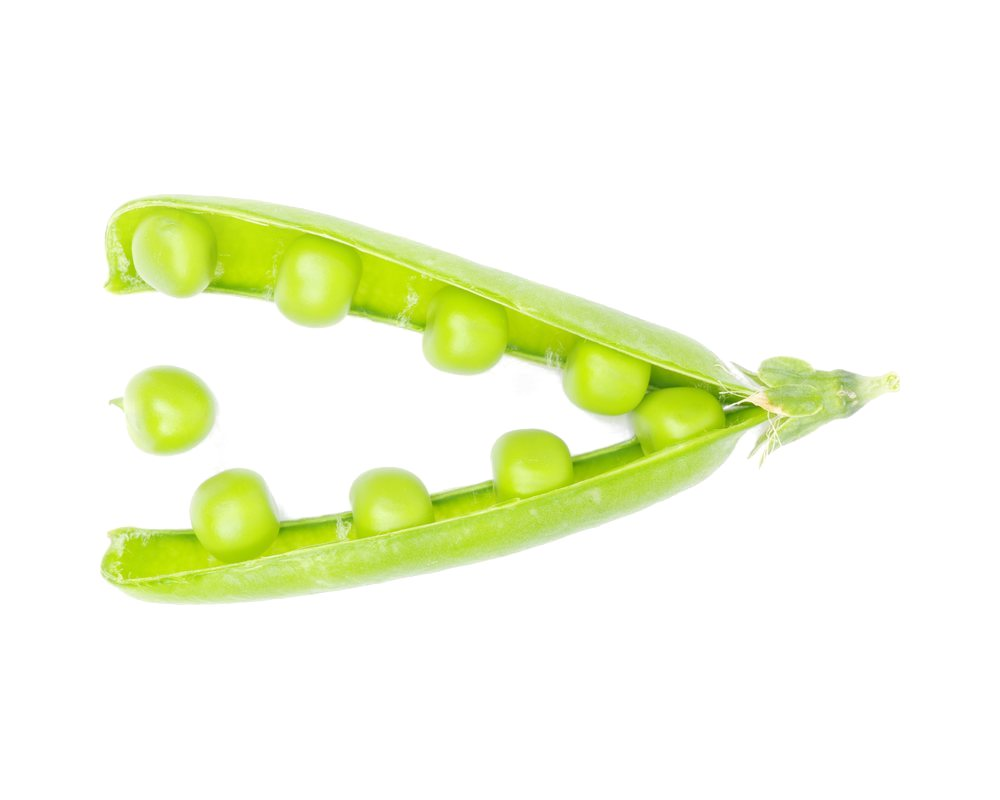
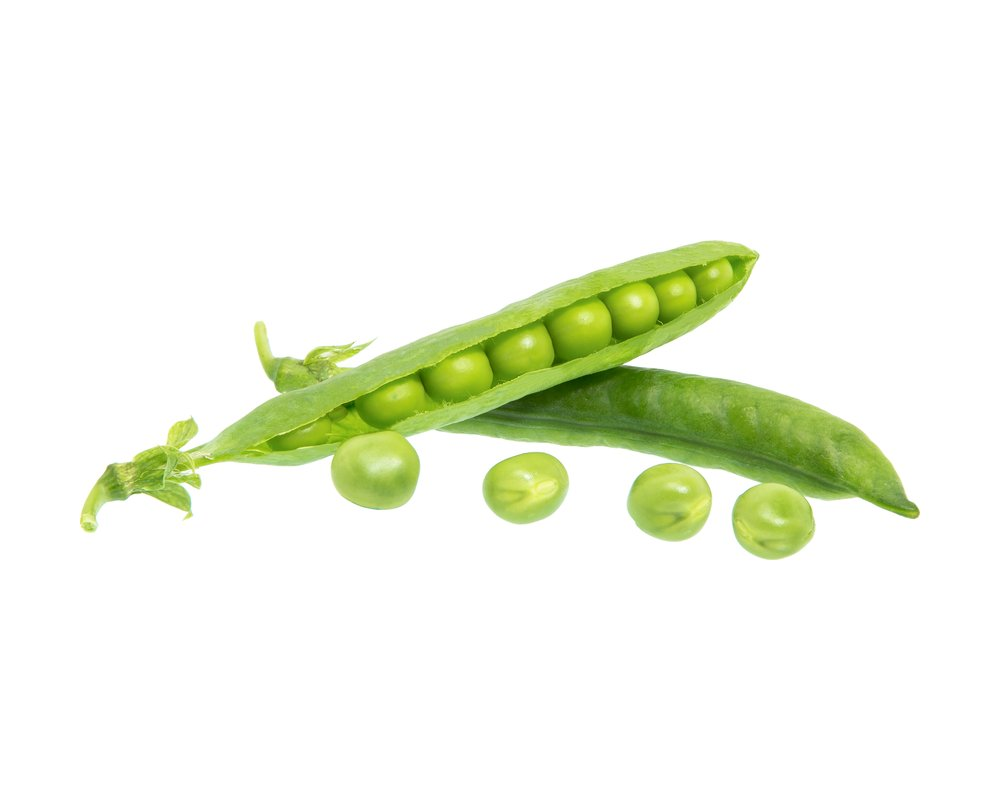
Foods: new photo for Peas
Open pea pods with a few peas on white (Magnific premium by romiri, picked by
the app owner), centered like the other single-food photos.

Claude-Session: https://claude.ai/code/session_01Hj6QJBTm6LNjTnyKhFQZB8

Changed region(s): [[0.062, 0.2188, 0.93, 0.7812]]

diff --git a/docs/photo-credits.md b/docs/photo-credits.md
@@ -256,7 +256,7 @@ app owner's paid Magnific (formerly Freepik) account and fetched with its API.
 | food-sweet-potato     | Magnific (magnific.com), via API                                                           | New Africa       | https://www.magnific.com/premium-photo/fresh-raw-sweet-potato-isolated-white_416907908.htm                                                                    | Magnific Premium license                | 2026-10-13 |
 | food-carrot           | Magnific (magnific.com), via API                                                           | rakibofficealbd  | https://www.magnific.com/premium-photo/single-fresh-orange-carrot-isolated-white-background-healthy-food-photography_429212493.htm                            | Magnific Premium license                | 2026-10-13 |
 | food-broccoli         | Magnific (magnific.com), via API                                                           | irinafischer     | https://www.magnific.com/premium-photo/broccoli-green-florets-photography-isolated-white-background-clipping-path-original-shadowxa_374081813.htm             | Magnific Premium license                | 2026-10-13 |
-| food-peas             | Magnific (magnific.com), via API                                                           | pakhnyushchyy    | https://www.magnific.com/premium-photo/peas_36433158.htm                                                                                                      | Magnific Premium license                | 2026-10-13 |
+| food-peas             | Magnific (magnific.com), supplied by the app owner (cropped)                               | romiri           | https://www.magnific.com/premium-photo/green-peas-pea-pod-isolated-white_433111433.htm                                                                        | Magnific Premium license                | 2026-10-19 |
 | food-spinach          | Magnific (magnific.com), via API                                                           | pixel-shot.com   | https://www.magnific.com/premium-photo/fresh-spinach-leaves-white-background_38929601.htm                                                                     | Magnific Premium license                | 2026-10-13 |
 | food-zucchini         | Magnific (magnific.com), via API                                                           | pakhnyushchyy    | https://www.magnific.com/premium-photo/cheap-restaurant_37488885.htm                                                                                          | Magnific Premium license                | 2026-10-13 |
 | food-butternut-squash | Magnific (magnific.com), via API                                                           | gorielov         | https://www.magnific.com/premium-photo/pumpkin_40350147.htm                                                                                                   | Magnific Premium license                | 2026-10-13 |
